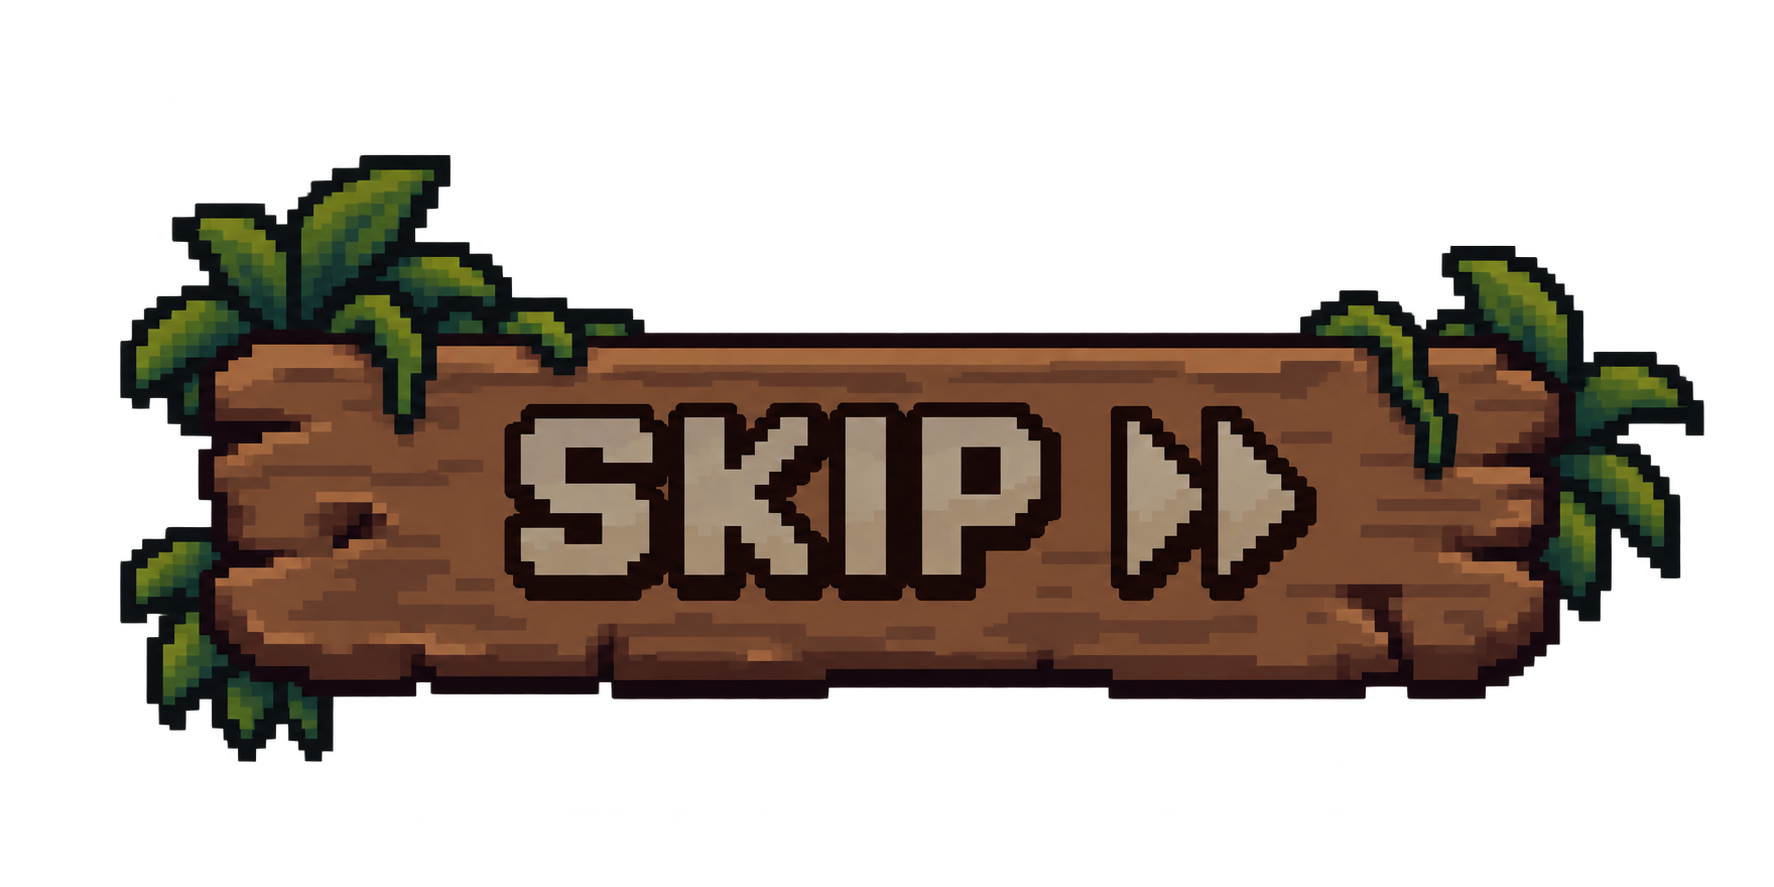
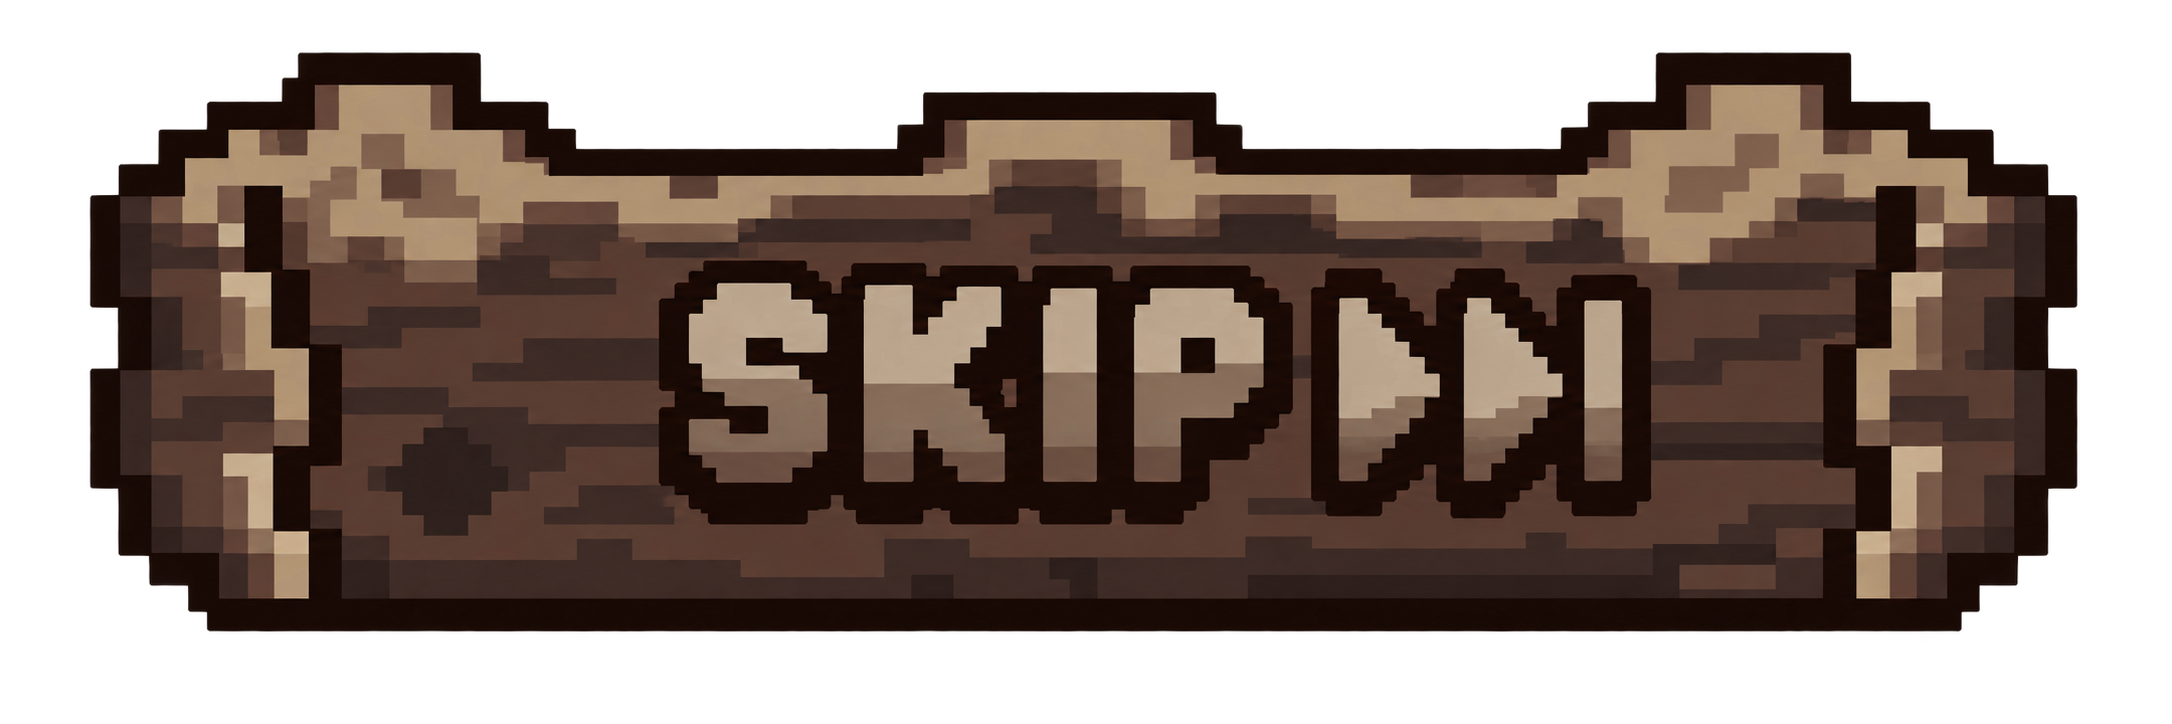
Make rolling actually required to pass under the spike platform
Give the player a full-height collider/hitbox by default (previously
a short bottom-aligned box that already fit under low overhangs,
making the roll-under-spikes challenge pointless), with density
recalculated to preserve the original body mass so jump/move impulses
feel unchanged.

Add ColliderComponent.resizeBox() to destroy/recreate a live fixture
while preserving its density, friction, filter and sensor flag, and
use it in PlayerActions.setRollingBounds() to shrink the player's
collider while rolling. Rolling no longer grants invulnerability —
the spikes' damage sensor is confined to the platform's underside, so
ducking under it is what keeps you safe, not a timing window.

Also includes Spotless comment re-wraps picked up across the touched
files, the higher-res skip button art, and the raw crab/beach-spike
source sprite sheets alongside their generated derivatives.

diff --git a/source/core/src/main/com/csse3200/game/components/player/PlayerActions.java b/source/core/src/main/com/csse3200/game/components/player/PlayerActions.java
@@ -2,9 +2,10 @@ package com.csse3200.game.components.player;
 
 import com.badlogic.gdx.math.Vector2;
 import com.badlogic.gdx.physics.box2d.Body;
-import com.csse3200.game.components.CombatStatsComponent;
 import com.csse3200.game.components.Component;
 import com.csse3200.game.physics.PhysicsLayer;
+import com.csse3200.game.physics.components.ColliderComponent;
+import com.csse3200.game.physics.components.HitboxComponent;
 import com.csse3200.game.physics.components.PhysicsComponent;
 import com.csse3200.game.physics.raycast.RaycastHit;
 import com.csse3200.game.services.ServiceLocator;
@@ -20,11 +21,10 @@ public class PlayerActions extends Component {
   private static final float ROPE_JUMP_MULTIPLIER = 0.7f;
   private static final float AIR_CONTROL = 0.1f; // How much steering you get mid-air
   private static final float ROLL_SPEED = 10f; // Metres per second at the start of a roll
-  private static final float ROLL_DURATION = 0.5f; // Seconds the roll (and its invulnerability) lasts
+  private static final float ROLL_DURATION = 0.5f; // Seconds the roll lasts
 
   private PhysicsComponent physicsComponent;
   private GrappleComponent grapple;
-  private CombatStatsComponent combatStats;
   private Vector2 walkDirection = Vector2.Zero.cpy();
   private float facing = 1f;
   private boolean moving = false;
@@ -38,7 +38,6 @@ public class PlayerActions extends Component {
   public void create() {
     physicsComponent = entity.getComponent(PhysicsComponent.class);
     grapple = entity.getComponent(GrappleComponent.class);
-    combatStats = entity.getComponent(CombatStatsComponent.class);
     entity.getEvents().addListener("walk", this::walk);
     entity.getEvents().addListener("walkStop", this::stopWalking);
     entity.getEvents().addListener("jump", this::jump);
@@ -54,6 +53,7 @@ public class PlayerActions extends Component {
       // Momentum carries the roll; steering is ignored until it ends.
       rollTimeLeft -= ServiceLocator.getTimeSource().getDeltaTime();
       if (!isRolling()) {
+        setRollingBounds(false);
         entity.getEvents().trigger("rollEnd");
       }
       return;
@@ -125,9 +125,7 @@ public class PlayerActions extends Component {
     }
   }
 
-  /**
-   * Dashes forward along the ground, briefly invulnerable — used to get past hazards like spikes.
-   */
+  /** Lowers the player to roll beneath overhead hazards. Contact still causes damage. */
   void roll() {
     if (isRolling() || !isGrounded || isGrappling()) {
       return;
@@ -135,10 +133,19 @@ public class PlayerActions extends Component {
     rollTimeLeft = ROLL_DURATION;
     Body body = physicsComponent.getBody();
     body.setLinearVelocity(facing * ROLL_SPEED + groundVelocityX, body.getLinearVelocity().y);
-    if (combatStats != null) {
-      combatStats.grantInvulnerability((long) (ROLL_DURATION * 1000f));
-    }
+    setRollingBounds(true);
     entity.getEvents().trigger("rollStart");
+  }
+
+  private void setRollingBounds(boolean rolling) {
+    Vector2 size = entity.getScale();
+    size.x *= 0.6f;
+    if (rolling) {
+      size.y *= 0.4f;
+    }
+    Vector2 center = new Vector2(entity.getScale().x / 2f, size.y / 2f);
+    entity.getComponent(ColliderComponent.class).resizeBox(size, center);
+    entity.getComponent(HitboxComponent.class).resizeBox(size, center);
   }
 
   boolean isRolling() {

diff --git a/source/core/src/main/com/csse3200/game/entities/factories/ObstacleFactory.java b/source/core/src/main/com/csse3200/game/entities/factories/ObstacleFactory.java
@@ -149,9 +149,9 @@ public class ObstacleFactory {
   }
 
   /**
-   * Creates an invisible sensor zone that fires "collisionStart" on overlap but applies no
-   * physical collision response. Pair with a behaviour component such as
-   * EnterZoneTriggerComponent to react to the overlap.
+   * Creates an invisible sensor zone that fires "collisionStart" on overlap but applies no physical
+   * collision response. Pair with a behaviour component such as EnterZoneTriggerComponent to react
+   * to the overlap.
    *
    * @param size box size in world units
    * @return sensor trigger entity
@@ -256,6 +256,23 @@ public class ObstacleFactory {
    */
   public static Entity createSpike() {
     return createSpike(0f);
+  }
+
+  /** Beach platform with a solid top and a damage sensor confined to its lower spikes. */
+  public static Entity createBeachSpikePlatform() {
+    Entity platform = createPlatform(0, "images/beach_spike.png");
+    platform.setScale(3f, 1.2f);
+    // Art includes transparent margins: visible top is at 70%, spike tips at 15%.
+    platform
+        .getComponent(ColliderComponent.class)
+        .setAsBox(new Vector2(2.9f, 0.42f), new Vector2(1.5f, 0.63f));
+    platform.addComponent(new CombatStatsComponent(100, 2));
+    platform.addComponent(new HitboxComponent().setLayer(PhysicsLayer.OBSTACLE));
+    platform
+        .getComponent(HitboxComponent.class)
+        .setAsBox(new Vector2(2.6f, 0.3f), new Vector2(1.5f, 0.33f));
+    platform.addComponent(new TouchAttackComponent(PhysicsLayer.PLAYER));
+    return platform;
   }
 
   private ObstacleFactory() {

diff --git a/source/core/src/main/com/csse3200/game/physics/components/ColliderComponent.java b/source/core/src/main/com/csse3200/game/physics/components/ColliderComponent.java
@@ -96,6 +96,33 @@ public class ColliderComponent extends Component {
     return this;
   }
 
+  /** Replace a live box outside the physics step, preserving its collision properties. */
+  public void resizeBox(Vector2 size, Vector2 center) {
+    if (fixture == null) {
+      setAsBox(size, center);
+      return;
+    }
+    Body body = fixture.getBody();
+    float mass = body.getMass();
+    FixtureDef replacement = new FixtureDef();
+    replacement.density = fixture.getDensity();
+    replacement.friction = fixture.getFriction();
+    replacement.restitution = fixture.getRestitution();
+    replacement.isSensor = fixture.isSensor();
+    replacement.filter.set(fixture.getFilterData());
+    PolygonShape box = new PolygonShape();
+    box.setAsBox(size.x / 2f, size.y / 2f, center, 0f);
+    replacement.shape = box;
+    body.destroyFixture(fixture);
+    fixture = body.createFixture(replacement);
+    box.dispose();
+    // Changing posture must not change the impulses needed to move a dynamic body.
+    if (!fixture.isSensor() && mass > 0f && body.getMass() > 0f) {
+      fixture.setDensity(fixture.getDensity() * mass / body.getMass());
+      body.resetMassData();
+    }
+  }
+
   /**
    * Set friction. This affects the object when touching other objects, but does not affect friction
    * with the ground.

diff --git a/source/core/src/test/com/csse3200/game/physics/ColliderComponentTest.java b/source/core/src/test/com/csse3200/game/physics/ColliderComponentTest.java
@@ -31,6 +31,25 @@ class ColliderComponentTest {
   }
 
   @Test
+  void shouldResizeLiveColliderAndPreserveProperties() {
+    Entity entity = new Entity().addComponent(new PhysicsComponent());
+    ColliderComponent collider = new ColliderComponent();
+    entity.addComponent(collider);
+    collider.setDensity(1.5f).setFriction(0.7f).setSensor(true).setLayer(PhysicsLayer.PLAYER);
+    entity.create();
+    collider.resizeBox(new Vector2(0.6f, 0.8f), new Vector2(0.45f, 0.4f));
+    assertEquals(1, entity.getComponent(PhysicsComponent.class).getBody().getFixtureList().size);
+    assertEquals(1.5f, collider.getFixture().getDensity());
+    assertEquals(0.7f, collider.getFixture().getFriction());
+    assertEquals(PhysicsLayer.PLAYER, collider.getLayer());
+    assertTrue(collider.getFixture().isSensor());
+    assertTrue(collider.getFixture().testPoint(0.45f, 0.7f));
+    assertFalse(collider.getFixture().testPoint(0.45f, 1.2f));
+    collider.resizeBox(new Vector2(0.6f, 2f), new Vector2(0.45f, 1f));
+    assertTrue(collider.getFixture().testPoint(0.45f, 1.2f));
+  }
+
+  @Test
   void shouldSetFriction() {
     Entity entity = new Entity();
     entity.addComponent(new PhysicsComponent());

diff --git a/source/core/src/main/com/csse3200/game/entities/factories/PlayerFactory.java b/source/core/src/main/com/csse3200/game/entities/factories/PlayerFactory.java
@@ -94,10 +94,19 @@ public class PlayerFactory {
             .addComponent(new GrappleRenderComponent())
             .addComponent(new PlayerAnimationController());
 
-    PhysicsUtils.setScaledCollider(player, 0.6f, 0.3f);
-    player.getComponent(ColliderComponent.class).setDensity(1.5f);
     player.getComponent(AnimationRenderComponent.class).scaleEntity();
     player.scaleWidth(0.9f);
+    PhysicsUtils.setScaledCollider(player, 0.6f, 1f);
+    // Preserve the original 0.27 kg body mass so existing jump and movement impulses still fit.
+    player
+        .getComponent(ColliderComponent.class)
+        .setDensity(0.27f / (player.getScale().x * 0.6f * player.getScale().y));
+    player
+        .getComponent(HitboxComponent.class)
+        .setAsBoxAligned(
+            player.getScale().cpy().scl(0.6f, 1f),
+            PhysicsComponent.AlignX.CENTER,
+            PhysicsComponent.AlignY.BOTTOM);
     return player;
   }
 

diff --git a/source/core/src/main/com/csse3200/game/GdxGame.java b/source/core/src/main/com/csse3200/game/GdxGame.java
@@ -72,8 +72,8 @@ public class GdxGame extends Game {
   }
 
   /**
-   * Fades the current screen to black, swaps to the target screen, then fades back in. Ignored if
-   * a transition is already in progress.
+   * Fades the current screen to black, swaps to the target screen, then fades back in. Ignored if a
+   * transition is already in progress.
    *
    * @param screenType screen type to transition to
    */
@@ -87,8 +87,8 @@ public class GdxGame extends Game {
   }
 
   /**
-   * Called by {@link TransitionScreen} once its fade-in has finished, handing control to the
-   * screen it faded into.
+   * Called by {@link TransitionScreen} once its fade-in has finished, handing control to the screen
+   * it faded into.
    *
    * @param toScreen the screen the transition faded into
    */

diff --git a/source/core/src/main/com/csse3200/game/components/gamearea/GameAreaDisplay.java b/source/core/src/main/com/csse3200/game/components/gamearea/GameAreaDisplay.java
@@ -22,7 +22,8 @@ public class GameAreaDisplay extends UIComponent {
   }
 
   private void addActors() {
-    title = new BoldLabel(this.gameAreaName.toUpperCase(), skin.get("large", Label.LabelStyle.class));
+    title =
+        new BoldLabel(this.gameAreaName.toUpperCase(), skin.get("large", Label.LabelStyle.class));
     stage.addActor(title);
   }
 
@@ -52,7 +53,8 @@ public class GameAreaDisplay extends UIComponent {
     float offsetY = 20f;
 
     // Centered at the top, clear of the heart HUD (left) and exit button (right).
-    title.setPosition((screenWidth - title.getWidth()) / 2f, screenHeight - offsetY - title.getHeight());
+    title.setPosition(
+        (screenWidth - title.getWidth()) / 2f, screenHeight - offsetY - title.getHeight());
   }
 
   @Override

diff --git a/source/core/src/main/com/csse3200/game/screens/TransitionScreen.java b/source/core/src/main/com/csse3200/game/screens/TransitionScreen.java
@@ -10,9 +10,9 @@ import com.csse3200.game.GdxGame;
 import com.csse3200.game.GdxGame.ScreenType;
 
 /**
- * Fades the outgoing screen to black, swaps to the target screen once fully black, then fades
- * back in. Used by {@link GdxGame#transitionTo(ScreenType)} for a smooth screen change instead of
- * an instant cut.
+ * Fades the outgoing screen to black, swaps to the target screen once fully black, then fades back
+ * in. Used by {@link GdxGame#transitionTo(ScreenType)} for a smooth screen change instead of an
+ * instant cut.
  */
 public class TransitionScreen implements Screen {
   private static final float FADE_DURATION = 0.4f;

diff --git a/source/core/src/main/com/csse3200/game/rendering/Renderer.java b/source/core/src/main/com/csse3200/game/rendering/Renderer.java
@@ -136,9 +136,9 @@ public class Renderer implements Disposable {
   }
 
   /**
-   * Renders the game world into a small offscreen buffer, then stretches it back up onto the
-   * screen with linear filtering. The UI stage (including the pause menu itself) is drawn
-   * afterwards, on top, at full sharpness.
+   * Renders the game world into a small offscreen buffer, then stretches it back up onto the screen
+   * with linear filtering. The UI stage (including the pause menu itself) is drawn afterwards, on
+   * top, at full sharpness.
    */
   private void renderWorldBlurred(Matrix4 projMatrix) {
     ensureBlurFrameBuffer();

diff --git a/source/core/src/main/com/csse3200/game/components/player/WakeUpCinematicDisplay.java b/source/core/src/main/com/csse3200/game/components/player/WakeUpCinematicDisplay.java
@@ -120,7 +120,8 @@ public class WakeUpCinematicDisplay extends UIComponent {
 
   private ImageButton buildSkipButton() {
     Texture upTexture =
-        ServiceLocator.getResourceService().getAsset("images/Buttons/skip_up_btn.png", Texture.class);
+        ServiceLocator.getResourceService()
+            .getAsset("images/Buttons/skip_up_btn.png", Texture.class);
     Texture downTexture =
         ServiceLocator.getResourceService()
             .getAsset("images/Buttons/skip_down_btn.png", Texture.class);

diff --git a/source/core/src/main/com/csse3200/game/components/level/EnterZoneTriggerComponent.java b/source/core/src/main/com/csse3200/game/components/level/EnterZoneTriggerComponent.java
@@ -5,7 +5,8 @@ import com.csse3200.game.components.Component;
 
 /**
  * Fires a callback once, the first time anything enters this entity's sensor collider. Pair with
- * {@link com.csse3200.game.entities.factories.ObstacleFactory#createTriggerZone(com.badlogic.gdx.math.Vector2)}.
+ * {@link
+ * com.csse3200.game.entities.factories.ObstacleFactory#createTriggerZone(com.badlogic.gdx.math.Vector2)}.
  */
 public class EnterZoneTriggerComponent extends Component {
   private final Runnable onEnter;

diff --git a/source/core/src/main/com/csse3200/game/components/player/KeyboardPlayerInputComponent.java b/source/core/src/main/com/csse3200/game/components/player/KeyboardPlayerInputComponent.java
@@ -202,8 +202,8 @@ public class KeyboardPlayerInputComponent extends InputComponent {
   }
 
   /**
-   * Releasing the mouse button lets go of the grapple and re-arms the click, so holding the
-   * button down fires only once.
+   * Releasing the mouse button lets go of the grapple and re-arms the click, so holding the button
+   * down fires only once.
    *
    * @return whether the input was processed
    * @see InputProcessor#touchUp(int, int, int, int)
